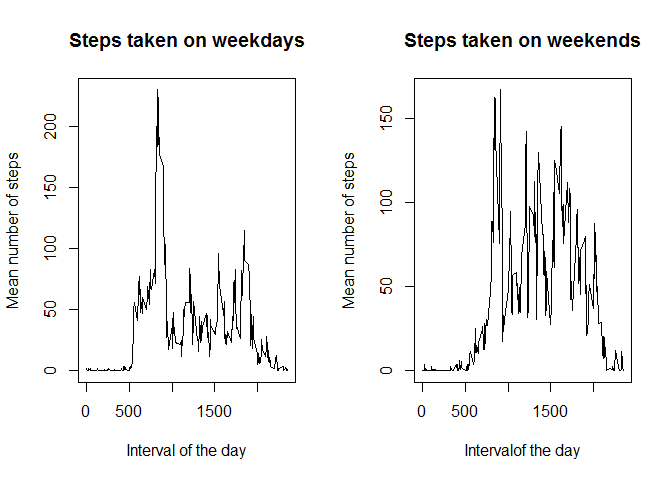
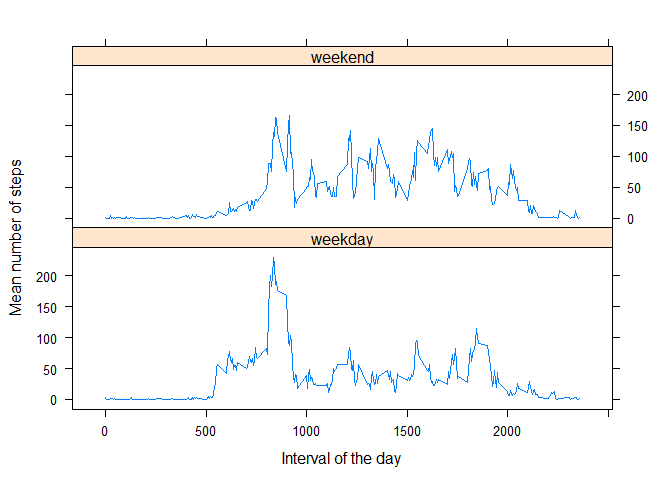
Final commit

diff --git a/PA1_template.html b/PA1_template.html
@@ -143,20 +143,12 @@ weekdayVar[indicesWeekdays] &lt;- &quot;weekday&quot;
 weekdayVar &lt;- as.factor(weekdayVar)
 
 modifActivityData2 &lt;- cbind(modifActivityData, weekdayVar)
-stepsWeekday &lt;- modifActivityData2[weekdayVar == &quot;weekday&quot;,]
-stepsWeekend &lt;- modifActivityData2[weekdayVar == &quot;weekend&quot;,]
-aggregatedData4 &lt;- aggregate(steps~interval, data=stepsWeekday, FUN=&quot;mean&quot;)
-aggregatedData5 &lt;- aggregate(steps~interval, data=stepsWeekend, FUN=&quot;mean&quot;)
+aggregatedData6 &lt;- aggregate(steps~interval+weekdayVar, data=modifActivityData2, FUN=&quot;mean&quot;)
 
-# Histogram of the total number of steps taken per day
-par(mfcol = c(1,2))
-
-# Repeat previous histogram for comparison
-with(aggregatedData4, plot(interval, steps, type = &quot;l&quot;, main = &quot;Steps taken on weekdays&quot;, ylab = &quot;Mean number of steps&quot;, xlab =&quot;Interval of the day&quot;))
-
-# Make a histogram of the steps taken per day (NAs filled in)
-with(aggregatedData5, plot(interval, steps, type = &quot;l&quot;, main = &quot;Steps taken on weekends&quot;, ylab = &quot;Mean number of steps&quot;, xlab =&quot;Intervalof the day&quot;))</code></pre>
[1 lines of base64/hex data omitted]
+# Make a panel plot to compare patterns between weekdays and weekends
+library(lattice)
+xyplot(aggregatedData6$steps ~ aggregatedData6$interval | aggregatedData6$weekdayVar, type = &quot;l&quot;, layout = c(1,2),ylab = &quot;Mean number of steps&quot;, xlab =&quot;Interval of the day&quot;)</code></pre>
[1 lines of base64/hex data omitted]
 </div>
 
 

diff --git a/PA1_template.md b/PA1_template.md
@@ -133,19 +133,11 @@ weekdayVar[indicesWeekdays] <- "weekday"
 weekdayVar <- as.factor(weekdayVar)
 
 modifActivityData2 <- cbind(modifActivityData, weekdayVar)
-stepsWeekday <- modifActivityData2[weekdayVar == "weekday",]
-stepsWeekend <- modifActivityData2[weekdayVar == "weekend",]
-aggregatedData4 <- aggregate(steps~interval, data=stepsWeekday, FUN="mean")
-aggregatedData5 <- aggregate(steps~interval, data=stepsWeekend, FUN="mean")
+aggregatedData6 <- aggregate(steps~interval+weekdayVar, data=modifActivityData2, FUN="mean")
 
-# Histogram of the total number of steps taken per day
-par(mfcol = c(1,2))
-
-# Repeat previous histogram for comparison
-with(aggregatedData4, plot(interval, steps, type = "l", main = "Steps taken on weekdays", ylab = "Mean number of steps", xlab ="Interval of the day"))
-
-# Make a histogram of the steps taken per day (NAs filled in)
-with(aggregatedData5, plot(interval, steps, type = "l", main = "Steps taken on weekends", ylab = "Mean number of steps", xlab ="Intervalof the day"))
+# Make a panel plot to compare patterns between weekdays and weekends
+library(lattice)
+xyplot(aggregatedData6$steps ~ aggregatedData6$interval | aggregatedData6$weekdayVar, type = "l", layout = c(1,2),ylab = "Mean number of steps", xlab ="Interval of the day")
 ```
 
 ![](PA1_template_files/figure-html/unnamed-chunk-5-1.png) 
